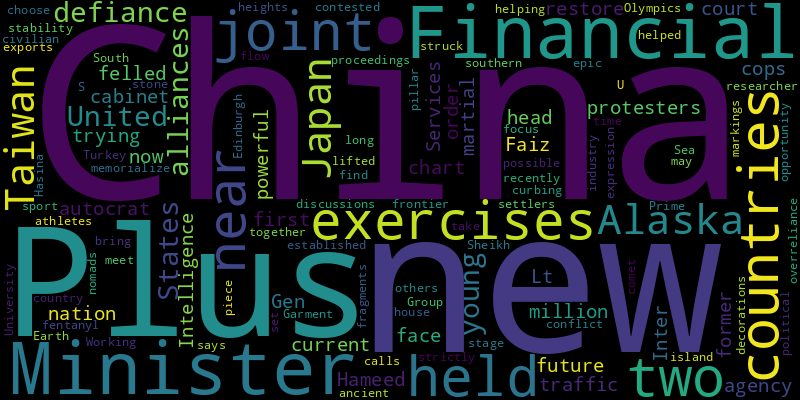
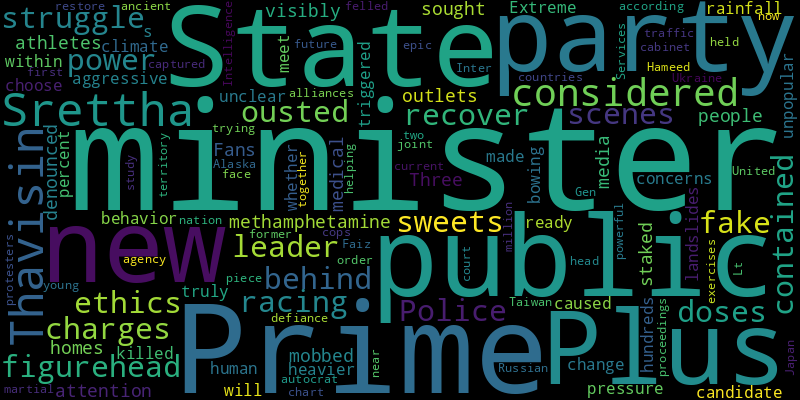
chore(bot): 😂 auto commit

diff --git a/README.md b/README.md
@@ -2,41 +2,41 @@
 Auto RSS New York Times and Generate Word Cloud
 
 ## New York Times Global News
-* An area of southern Gaza where Israel has directed hundreds of thousands of civilians to go has become a “hell” where food and water are scarce, people there say.
-* The country made five new demands, according to documents detailing its newest negotiating positions.
-* A week after the biggest foreign incursion into Russia since World War II, The New York Times visited one of the spots where Ukrainian forces stormed into Russia and surprised the defenders.
-* The young protesters who felled an autocrat are now cabinet ministers and traffic cops, trying to restore order and chart a new future for a nation of 170 million.
-* The two countries have held joint exercises near Alaska, Taiwan and Japan in defiance of the United States and its alliances.
-* As the once carefree summers of Ukrainian childhood and young adulthood are forever altered by war, traditional camps have taken on a more patriotic tone.
-* Tehran is under pressure to avenge the assassination of Ismail Haniyeh, but analysts said it is balancing multiple factors as it weighs a response.
-* Even after restoring order, the new prime minister faces a bigger challenge: defusing the issues of fraying public services and a cost of living crisis that underlie the unrest.
-* A girl, 11, was recovering in a hospital after being attacked on Monday. The police said her mother, initially thought to have been stabbed, had not been injured.
-* More than 200 civilian settlers on a contested island in the South China Sea find themselves on the frontier of a possible conflict with China.
+* Turkish officials have bashed Israel and praised Hamas, complicating  their country’s place in diplomacy aimed at ending the war.
+* They are now trying to rebuild their lives, campaign for the return of the hostages still in Gaza and mourn for those who were killed.
+* The unpopular prime minister is bowing to pressure within his party. But it is unclear whether the party is truly ready to choose a candidate who will meet the public’s concerns.
+* Abdulmoiz, an asylum seeker from Sudan, feared for his life when far-right rioters tried to set fire to the hotel where he was housed. The violence has eased, but he is still afraid.
+* Prime Minister Srettha Thavisin was considered a figurehead leader in a behind-the-scenes power struggle. He was ousted on ethics charges.
+* The American-backed talks in Switzerland, starting on Wednesday, aim to halt a catastrophic civil war. But only one side says it will turn up.
+* Fans have mobbed athletes in public and staked out their homes. State media outlets denounced their “visibly aggressive” behavior.
+* Planned in secrecy, the incursion was a bold move to upend the war’s dynamics and put Moscow on the defensive — a gambit that could also leave Ukraine exposed.
+* The incursion caught Russia by surprise and signified a shift in tactics for Kyiv after more than two years of war with Russia.
+* Prosecutors argued in court that pro-Palestinian activists had vandalized a site belonging to Elbit, an arms manufacturer, and had committed offenses with a “terrorist connection.”
 
 ![Global](./global.png)
 ## New York Times United States News
-* The government has reduced a backlog of applications that built up during the Trump administration. New citizens say they are looking forward to voting in November.
-* The move to raze the church in Sutherland Springs, which had served as a memorial to the victims of the 2017 massacre, came over objections from some in the community.
-* Gov. Gavin Newsom, frustrated by county leaders who spurned his executive order cracking down on encampments, visited their turf to clear homeless sites.
-* The quake was centered about five miles northeast of downtown, according to the U.S. Geological Survey. There were no initial reports of serious damage.
-* The leading mayoral candidates are racing to hire influential activists in the city’s large Chinese community and looking for every opportunity to reach Chinese-speaking voters.
-* Elon Musk offered frequent praise as he proved a sympathetic partner to help amplify Donald J. Trump’s views on a social-media platform that once barred him for pushing his false election claims.
-* Fact-checking Donald Trump’s claims about immigration, Vice President Kamala Harris, President Biden and more.
-* She could face multiple years in prison when she is sentenced in October.
-* Arizona state troopers rescued Stitch, the giant sulcata tortoise, from an interstate highway after it escaped from its enclosure at a ranch.
-* A Trump campaign official said that the aircraft was provided by a charter jet service after his own jet had a mechanical failure, and that the campaign had been unaware of the plane’s previous ownership.
+* Gov. Tim Walz’s response to the unrest has attracted new scrutiny, and diverging opinions, since he joined Kamala Harris’s ticket.
+* The case, against the parents of a gunman who killed 10 people in Santa Fe, Texas, in 2018, is among the first in which school shooting victims are trying to hold parents liable in civil court.
+* Republicans accused Democratic officials of trying to sway the results. But prosecutors found that the problem stemmed from an employee whose attention was diverted.
+* The governor of Minnesota hasn’t spent his life striving for the pinnacle of politics. That is how he got there.
+* In late July, Waymo rented a parking lot outside two San Francisco apartment buildings for its vehicles to idle in. Then came the noise.
+* Two other House Democrats who are part of the left-wing “squad” lost primary contests this summer after an influx of spending by pro-Israel groups.
+* Mr. Hovde, a wealthy businessman endorsed by Donald J. Trump, won the Republican primary Tuesday night to challenge Senator Tammy Baldwin, the Democratic incumbent.
+* William Lester Suff, 70, was already on death row for a dozen murders in Southern California. Now, he has confessed to killing a 19-year-old woman, shutting a 1986 cold case, officials said.
+* After President Biden dropped his re-election bid, his administration released records showing that while he was vice president, his son solicited U.S. government assistance.
+* Dunyadar Gasanov admitted he had lied to investigators about how long he had known the driver of the truck and altered drivers’ logs to evade federal regulations.
 
 ![US](./usnews.png)
 ## New York Times Asia News
+* Prime Minister Srettha Thavisin was considered a figurehead leader in a behind-the-scenes power struggle. He was ousted on ethics charges.
+* Police were racing to recover the fake sweets, each of which contained up to 300 doses of methamphetamine. Three people sought medical attention.
+* Fans have mobbed athletes in public and staked out their homes. State media outlets denounced their “visibly aggressive” behavior.
+* The unpopular prime minister is bowing to pressure within his party. But it is unclear whether the party is truly ready to choose a candidate who will meet the public’s concerns.
+* Extreme rainfall made 10 percent heavier by human-caused climate change triggered landslides that killed hundreds, according to a new study.
+* Plus, in Russian territory captured by Ukraine.
 * The two countries have held joint exercises near Alaska, Taiwan and Japan in defiance of the United States and its alliances.
 * The young protesters who felled an autocrat are now cabinet ministers and traffic cops, trying to restore order and chart a new future for a nation of 170 million.
 * Lt. Gen. Faiz Hameed is the first current or former head of the powerful Inter-Services Intelligence agency to face court-martial proceedings.
 * Plus, A.I. is helping piece together an ancient epic.
-* The recently established U.S.-China Financial Working Group is set to meet for discussions about financial stability and curbing the flow of fentanyl.
-* More than 200 civilian settlers on a contested island in the South China Sea find themselves on the frontier of a possible conflict with China.
-* Plus, house calls for nomads.
-* The Olympics have long been a stage for political expression, for athletes who take the opportunity. Some do, while others choose to focus strictly on their sport.
-* The markings on a pillar in southern Turkey are more than decorations on the stone, a researcher at the University of Edinburgh says. They may memorialize a time when comet fragments struck Earth.
-* Garment exports lifted the country to new heights. But overreliance on that industry also helped bring down Prime Minister Sheikh Hasina.
 
 ![Asian](./asian.png)
